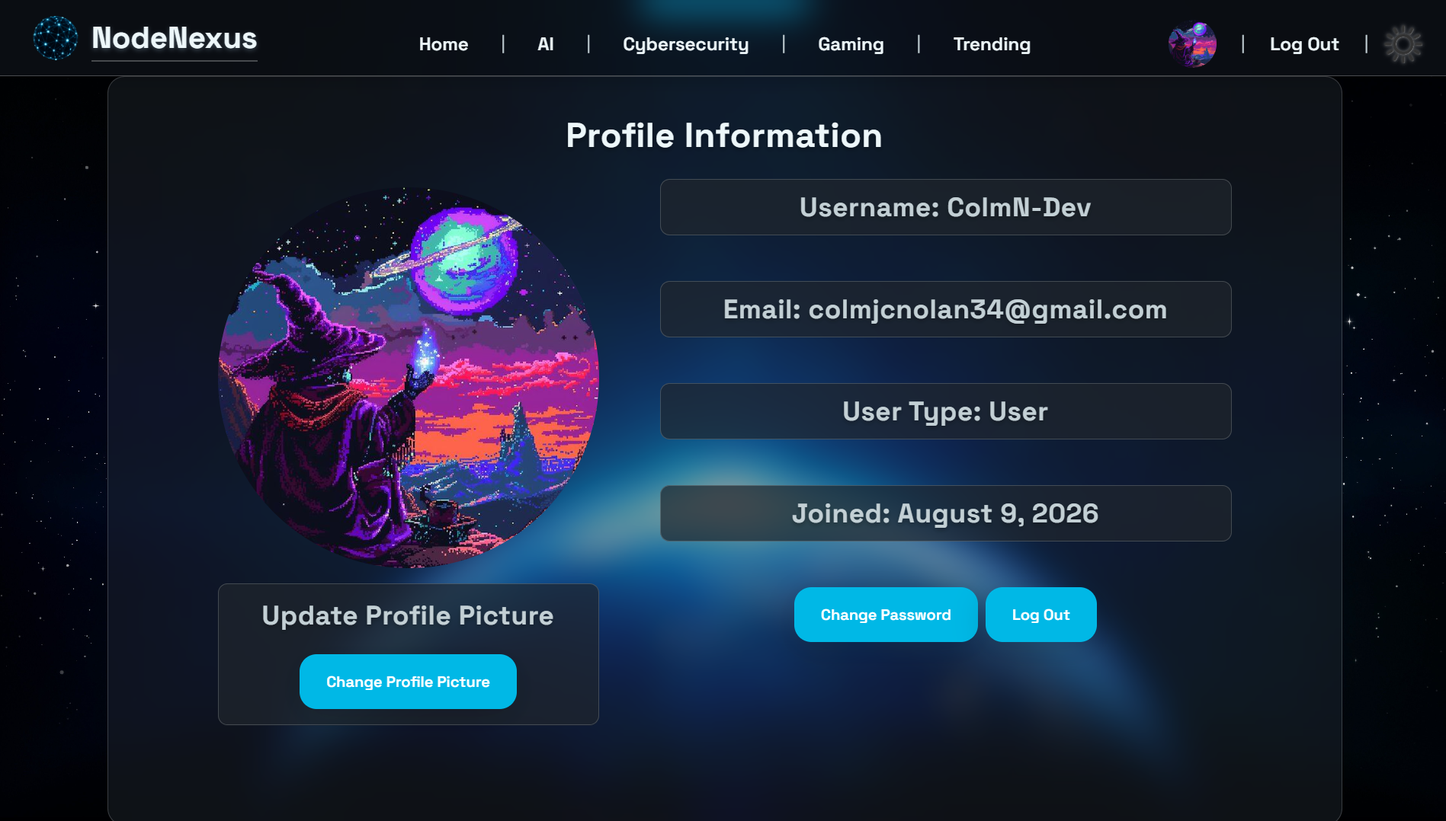
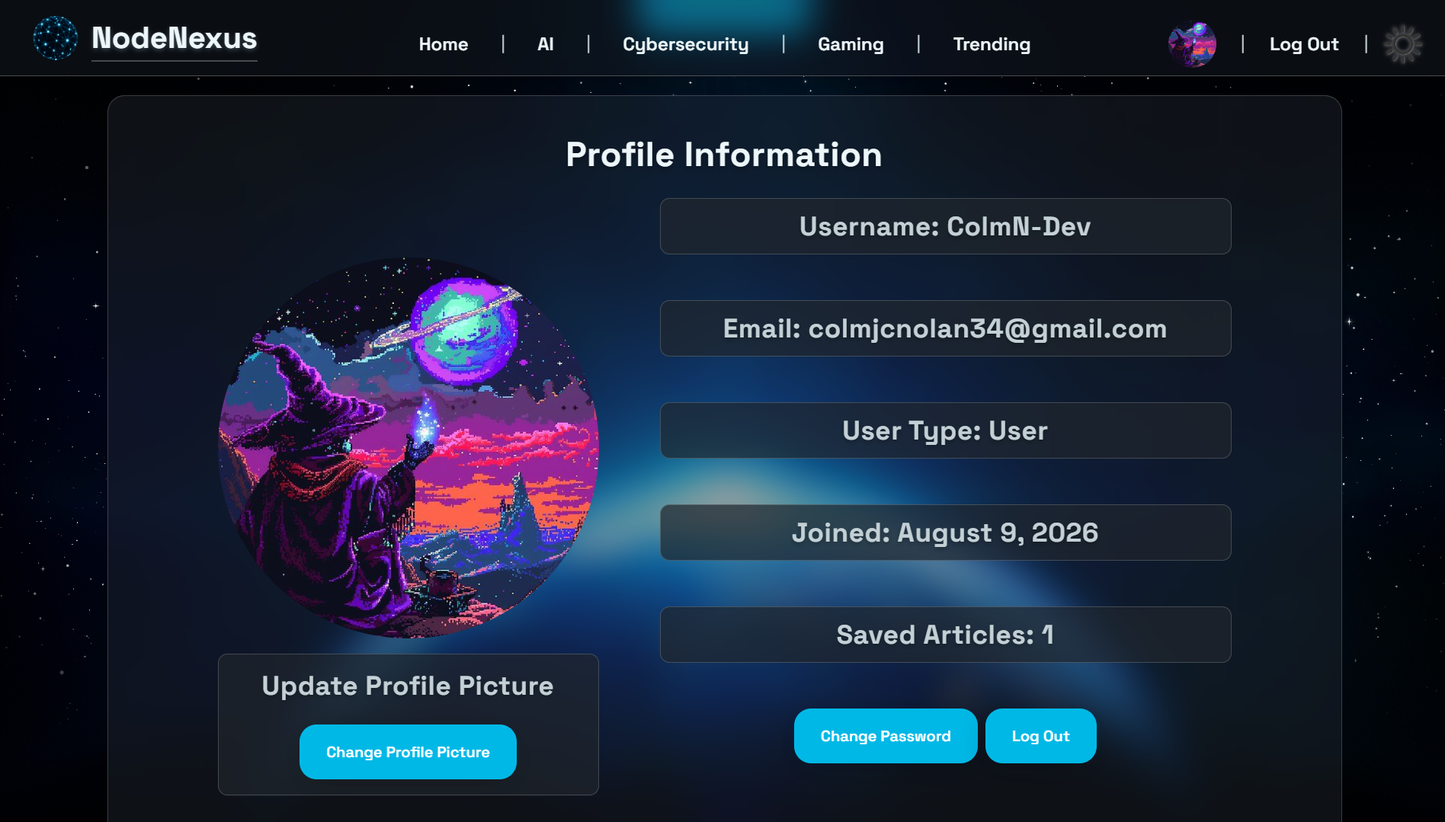
docs: Update README and documentation to include bookmarking features and article management details

diff --git a/docs/NodeNexus-Documentation.md b/docs/NodeNexus-Documentation.md
@@ -26,7 +26,7 @@
 
 NodeNexus is a technology news aggregator built with Django. It pulls articles from the Currents API and displays them across category pages (AI, cybersecurity, gaming, trending), alongside global search, autocomplete, and article detail pages.
 
-The application also includes user authentication and account features, allowing users to register, log in, manage their account, and interact with content. Further user features such as bookmarks, comments, messaging, and account management are being developed as the project progresses.
+The application also includes user authentication and account features, allowing users to register, log in, manage their account, manage their profile picture, and save articles using bookmarks.
 
 The stack is Django, PostgreSQL, and Django Templates with Bootstrap, custom CSS, and vanilla JavaScript. The project is structured so a React frontend and DRF API layer can be added later without a rewrite, but currently all pages are plain Django templates.
 
@@ -44,28 +44,31 @@ NodeNexus/
 ├── backend/
 │   ├── accounts/               # Authentication and account-related views/forms
 │   ├── config/                 # Django settings, urls, wsgi/asgi
-│   ├── core/                   # General site views (ai, cybersecurity, gaming, trending)
-│   ├── media/                  # Contains the `default.png` file for initial profile picture
-│   ├── news/                   # News app: models, views, and services/
+│   ├── core/                   # General site views and shared functionality
+│   ├── media/                  # Local media files used during development
+│   ├── news/                   # News, article, and bookmark functionality
 │   │   └── services/
 │   │       ├── currents.py     # Currents API calls + processing
-│   │       └── cache.py        # API response caching
+│   │       ├── cache.py        # API response caching
+│   │       └── articles.py     # Article creation/retrieval service logic
 │   ├── staticfiles/
 │   ├── manage.py
 │   └── requirements.txt
 │
 ├── frontend/
 │   └── src/
-│       ├── components/     # Reusable template partials (navbar, footer, article_card, etc.)
-│       ├── pages/          # Page templates (index, ai, cybersecurity, gaming, trending, search_results)
-│       └── static/         # css, js, images
+│       ├── components/         # Reusable template partials
+│       ├── pages/              # Page templates
+│       └── static/             # CSS, JavaScript, and images
 │
 ├── docs/
 ├── Procfile
 └── README.md
 ```
 
-The `core` app handles general site pages. `news` handles article fetching and category logic. The `news/services` package keeps Currents API calls and caching logic out of the views. The `accounts` app handles user registration, login, logout, profile access, password resets, and password changes.
+The core app handles general site pages and functionality. The news app handles article-related models, views, bookmarks, and external news data. The news/services/ package keeps API, caching, and article creation logic separate from the views.
+
+The accounts app handles user registration, authentication, profiles, password management, and profile pictures.
 
 ---
 
@@ -73,32 +76,57 @@ The `core` app handles general site pages. `news` handles article fetching and c
 
 ## Views and URL routing
 
-Each category page (AI, cybersecurity, gaming, trending) and the search results page has a view that: reads the requested page number from the URL, calls the relevant service function, falls back to a valid page if the requested one is empty, and renders the template.
+Django views handle requests from the frontend and connect the templates to the application's backend logic.
 
-A shared `get_page_articles` helper handles the "requested page has no results, step back until one does" logic so it isn't repeated in every view.
+Each category page (AI, cybersecurity, gaming, trending) and the search results page uses the relevant service functions to retrieve articles, handle pagination, and render the appropriate template.
+
+Article detail pages can display article data returned by the external API. When an article is bookmarked, its data is stored in the database and can then be retrieved using its database ID.
+
+URL routing is split between the main project URL configuration and the individual Django apps, keeping routes organised by responsibility.
 
 ---
 
 ## Currents API service
 
-`currents.py` handles all communication with the Currents API: building the request, processing the response into a consistent article format, and returning `has_next` so views know whether another page exists.
+`currents.py` handles communication with the Currents API, including building requests, processing responses, filtering results, and returning article data in a consistent format.
 
-The Currents API doesn't return a total result count, so pagination can't use a normal "page X of Y" approach — instead, each request returns whether a next page is available, and the app works page-by-page from there. In practice, and from testing, results are capped at five pages per query.
+The Currents API does not return a total result count, so pagination cannot use a normal "page X of Y" approach. Instead, the application checks whether another page of results is available and uses this information to control pagination.
+
+In practice, testing showed that results are capped at five pages per query.
 
 ---
 
 ## Caching
 
-`cache.py` provides a TTL-based cache in front of the Currents API calls, so repeated requests for the same query/page don't hit the external API every time. This reduces API usage and makes the app more resilient to slow or inconsistent API responses.
+`cache.py` provides a TTL-based cache in front of Currents API requests. Repeated requests for the same query and page can therefore use cached data instead of making another external API request.
+
+This reduces API usage and makes the application more resilient to slow or inconsistent API responses.
 
 ---
 
 ## Content filtering
 
-Before articles are shown, low-quality results are filtered out:
-- A domain exclusion list removes known low-value sources (forum threads, raw vulnerability database dumps).
-- Auto-generated CVE announcement titles are filtered out, while genuine articles that reference a CVE number in a proper headline are kept.
-- Duplicate articles are removed.
+Before articles are displayed, low-quality or unsuitable results are filtered out.
+
+This includes:
+
+- A domain exclusion list that removes known low-value sources and raw vulnerability database results.
+- Filtering auto-generated CVE announcement titles while keeping genuine articles that reference CVE numbers in proper headlines.
+- Removing duplicate articles from API results.
+
+---
+
+## Article and bookmark management
+
+Articles returned by the Currents API are initially handled as API response data rather than being stored in the database.
+
+When a user views an article, its data can be displayed directly from the API response. When the user chooses to bookmark an article, the relevant article data is passed to the article service.
+
+The service checks whether the article already exists in the `Article` table. If it does not, the article is created and assigned a database ID. A `Bookmark` record is then created linking the authenticated user to that article.
+
+This keeps the database limited to articles that users have actually saved instead of storing every article returned by the external API.
+
+When a user removes a bookmark, the bookmark is deleted. If the article is no longer bookmarked by any user, the associated article record can also be removed so unused article records do not remain in the database.
 
 ---
 
@@ -186,6 +214,18 @@ The article detail page has a "related articles" section that uses the same hori
 related_query = " ".join(title_words[:3])
 ```
 
+## Bookmarks
+
+Users can bookmark articles from the article detail page and remove them again from their saved articles.
+
+The bookmark interface uses SVG icons rather than text-only controls, keeping the interface compact and consistent with the rest of the NodeNexus design.
+
+When an article is bookmarked, its data is stored in the `Article` table and a `Bookmark` record links it to the user's account. Saved articles are displayed on the user's profile page.
+
+Removing a bookmark deletes the bookmark record. If the article is no longer bookmarked by any user, the associated article record is also removed to keep the database clean.
+
+---
+
 ## Responsive Design
 
 Getting Bootstrap and the custom CSS to work consistently across different screen sizes required ongoing testing and adjustments as new features were added. Components such as the mobile navigation, article carousels, pagination, article cards, and article detail layout each required responsive styling to maintain a consistent appearance and layout across desktop, tablet, and mobile devices.
@@ -218,13 +258,19 @@ The selected profile picture is displayed on the profile page and throughout the
 
 # 5. Database
 
-NodeNexus uses PostgreSQL instead of Django's default SQLite, for a more production-realistic setup and to support future features like user accounts, bookmarks, and comments. Credentials are kept in environment variables rather than in the codebase. Development and production use separate PostgreSQL databases, both accessed through the same Django ORM configuration.
+NodeNexus uses PostgreSQL instead of Django's default SQLite, for a more production-realistic setup and to support relational features such as user accounts, articles, and bookmarks. Credentials are kept in environment variables rather than in the codebase. Development and production use separate PostgreSQL databases, both accessed through the same Django ORM configuration.
 
-The database currently includes Django's default authentication tables and the application's user profile data. User accounts and profile information are stored in PostgreSQL.
+The database includes Django's default authentication tables, the application's user profile data, and the custom `Article` and `Bookmark` models.
+
+The `Article` model stores article information when an article is bookmarked, including its title, description, image, source, published date, and URL. The `Bookmark` model connects saved articles to individual users.
+
+Articles are not stored in the database simply because they were returned by the Currents API. They are only added when a user saves an article. This avoids filling the database with articles that no user has chosen to keep.
+
+When a bookmark is removed, the bookmark record is deleted. If no other user has bookmarked the associated article, the article record is also removed.
 
 Custom profile images are stored through Cloudinary, while preset profile images are stored as static files and referenced by the user's profile.
 
-User features such as bookmarks, comments, and messaging will be added later.
+User features such as comments and messaging will be added later.
 
 ---
 
@@ -235,6 +281,8 @@ User features such as bookmarks, comments, and messaging will be added later.
 - **Content filtering:** domain exclusion list, CVE-title filtering, and deduplication.
 - **Pagination:** five-button numbered pagination with previous/next arrows, responsive layout, applied across category and search pages.
 - **Article detail pages:** full article view with a larger image, a link to the original article, and a related-articles carousel.
+- **Bookmarks:** Users can save articles to their profile, view their saved articles, and remove bookmarks. Articles are only added to the database when bookmarked, and unused article records are removed when no users have them bookmarked.
+- **Article management:** Saved articles are stored using `Article` and `Bookmark` database models, allowing bookmarked content to be associated with individual users.
 - **Responsive frontend:** desktop grid / mobile carousel layouts, mobile bottom nav, off-canvas menu, fallback images.
 - **Theming:** dark/light mode via CSS variables.
 - **Caching:** TTL cache in front of the Currents API to cut down on repeat requests.
@@ -248,7 +296,7 @@ User features such as bookmarks, comments, and messaging will be added later.
 - **Profile navigation:** The user's profile picture is displayed in the desktop navbar and mobile hamburger menu.
 - **Deployment setup:** Render hosting, PostgreSQL, Gunicorn, WhiteNoise for static files.
 
-Not yet built: bookmarks, comments, and the inbox/messaging system.
+Not yet built: comments and the inbox/messaging system.
 
 ---
 
@@ -256,9 +304,11 @@ Not yet built: bookmarks, comments, and the inbox/messaging system.
 
 - The app depends entirely on the Currents API — if it's slow, rate-limited, or changes its response format, that directly affects the site. Caching helps but doesn't remove the dependency.
 - Article data from the API isn't perfectly consistent (missing fields, occasional thin category results), so some normalisation and filtering will likely need further tuning.
-- Related-articles matching (first three words of the title) is a simple heuristic, not true topic matching, so results are sometimes only loosely related.
-- Article detail pages currently pass full article metadata (title, description, image, source, published date, URL) through query parameters in the URL, rather than looking articles up by an ID from the database. This works for now but is only temporary until articles are stored with proper IDs once the database models are built.
-- User authentication, profile access, profile editing, profile pictures, password reset, and change password are implemented. Bookmarking, comments, and messaging have not been built.
+- Related-articles matching (first three words of the title) is a simple approximation, not true topic matching, so results are sometimes only loosely related.
+- Article detail pages currently receive the full article metadata through query parameters rather than looking the article up by a database ID. This is intentional for unsaved articles because API articles are not stored in the database until a user bookmarks them.
+- Bookmarked articles are stored in the database, but the application does not currently store every article returned by the API. This means an article only receives a database ID after it has been saved.
+- Bookmarking currently depends on the article data supplied by the API response. If the API changes or provides incomplete article data, this can affect the information stored when an article is bookmarked.
+- Comments, messaging/inbox functionality, and account deletion have not yet been implemented.
 
 ---
 
@@ -275,6 +325,16 @@ Not yet built: bookmarks, comments, and the inbox/messaging system.
 **Why previous/next pagination instead of numbered totals** — the Currents API doesn't report a total result count, so a traditional "page X of Y" approach wasn't possible. Since results are capped at five pages, a fixed five-button layout was used instead of calculating a page range.
 
 **Why a service layer for the API** — keeping `currents.py` and `cache.py` separate from the views means the views stay focused on handling requests, and the API/caching logic can be tested and changed independently.
+
+**Why articles are not stored immediately** — Articles returned by the Currents API are initially treated as API response data rather than being stored in the database. Storing every article returned by the API would create unnecessary database records for content users may never interact with. An article is only created in the database when a user chooses to bookmark it.
+
+**Why bookmarks use separate Article and Bookmark models** — The `Article` model stores the article data itself, while the `Bookmark` model connects an article to a specific user. This keeps article data separate from the user's saved relationship and allows the same article to be bookmarked by multiple users without duplicating the article record.
+
+**Why the Article record is created when bookmarked** — When a user saves an API article, the application uses the article data already available in the API response to create or retrieve the corresponding `Article` record. The database then assigns the article its own ID, which the bookmark can reference.
+
+**Why unused articles are removed** — When a user removes a bookmark, the bookmark record is deleted. If no other users have bookmarked that article, the associated `Article` record is also removed. This prevents the database from accumulating article records that are no longer being used.
+
+**Why API response data is used for unsaved articles** — The Currents API does not provide a reliable way to retrieve an individual article by its URL or another permanent database identifier. Passing the article data through to the detail page allows unsaved articles to be displayed without unnecessarily storing them in the database.
 
 ---
 
@@ -326,6 +386,26 @@ Deployment flow: push to GitHub → Render pulls the update → installs depende
 
 **Cloudinary configuration and Render deployment** — The Cloudinary implementation initially caused deployment problems on Render. The build installed the `cloudinary` package but failed when Django attempted to import `cloudinary_storage`. The unused `cloudinary_storage` configuration was removed and the project was configured to use `CloudinaryField` directly. Cloudinary environment variables were then added to Render so the same profile image system worked in both development and production.
 
+**Bookmark database design** — Adding bookmarks required deciding how API articles should be represented in the database. Storing every article returned by Currents would create unnecessary database records, so the final design keeps unsaved articles as API response data and only creates an `Article` record when a user bookmarks one.
+
+**Using the API response for unsaved articles** — A major challenge was that an article being viewed does not necessarily exist in the database. The final solution was to continue using the Python dictionary containing the API response while the article is being viewed. When the user chooses to bookmark it, that dictionary provides the data needed to create the database record. This avoids forcing every API result into the database just to support the article detail page.
+
+**Creating articles only when bookmarked** — The bookmarking flow was designed so the application gets or creates the `Article` record from the API data when the user saves an article. The database then assigns the article its own ID, and the `Bookmark` record links that article to the user's account. This provided a much simpler solution than trying to maintain database records for every article returned by the API.
+
+**Separating Article and Bookmark records** — The implementation required understanding that an article and a user's bookmark are two different pieces of data. The `Article` model stores the article itself, while the `Bookmark` model represents the relationship between a user and a saved article. This allows an article to exist once in the database while being bookmarked by multiple users.
+
+**Bookmark removal and unused articles** — Initially, removing a bookmark only removed the bookmark relationship, leaving the associated article in the database. This meant an article could remain in the `Article` table even after no user had saved it. The deletion logic was updated so that after a bookmark is removed, the application checks whether the article is still bookmarked by another user. If it is not, the unused `Article` record is deleted as well, keeping the database clean.
+
+**Bookmark state on article pages** — The article detail page needed to know whether the current authenticated user had already bookmarked the article so that the correct bookmark state could be displayed. This required passing the bookmark state from the backend to the template while still supporting articles that had not yet been stored in the database.
+
+**Bookmark interface and icon design** — The bookmark controls were refined during implementation so the final interface uses SVG icons rather than relying on text-only buttons. The remove-bookmark action was given stronger danger styling because it represents a destructive action, while simpler Bootstrap styling was retained for less significant controls such as cancel actions.
+
+**Bookmark migrations and database changes** — Adding the `Article` and `Bookmark` models required creating and applying Django migrations. Subsequent changes to the `Article` model also required additional migrations so the database structure remained consistent with the Django models.
+
+**Article service layer** — The bookmark implementation introduced a dedicated article service function responsible for getting an existing article or creating it from the supplied API data. This kept database creation logic out of the bookmark view and provided one place for handling the transition from temporary API data to a persistent database article.
+
+**Testing bookmark creation and deletion** — The complete bookmark flow required testing that an article could be saved, appeared in the user's saved articles, could be removed again, and that the corresponding database records were correctly created and cleaned up. Additional testing will continue as further NodeNexus features are added.
+
 **Development and production consistency** — The profile picture system was tested across both the local development environment and the deployed Render application. The final implementation keeps preset images in static files and custom uploads in Cloudinary, avoiding reliance on the Render filesystem for user-uploaded media.
 
 ---
@@ -358,16 +438,26 @@ Deployment flow: push to GitHub → Render pulls the update → installs depende
 - Using JavaScript to control a custom modal, handle image selection, and preview profile images before submission.
 - Understanding how HTML form structure can affect modal behaviour and why separating the modal from the main update form was necessary.
 - Keeping development and production media handling consistent through environment-based Cloudinary configuration.
+- Separating temporary API response data from persistent database data.
+- Why articles should only be stored in the database when a user chooses to bookmark them rather than storing every article returned by the API.
+- Working with relationships between the `Article` and `Bookmark` models to connect users with saved articles.
+- Using `get_or_create()` to prevent duplicate article and bookmark records.
+- Cleaning up unused database records when a bookmark is removed.
+- Passing bookmark state from a Django view to a template so the interface can display the correct action.
+- Reusing an existing bookmark deletion view from multiple parts of the application rather than creating separate deletion logic.
+- Using database IDs when API data is converted into persistent Django model records.
+- Reviewing documentation against the actual application to identify missing functionality and inconsistencies.
 
 ---
 
 # 12. Next Steps
 
-- Bookmarks (saved articles), comments, and the inbox/messaging system required by the assignment brief.
+- Comments and the inbox/messaging system required by the assignment brief.
 - Account deletion and additional account management features.
 - Admin functionality and role-based access control.
 - Continued testing and bug fixes on API result consistency (some categories occasionally return fewer than 12 articles).
 - Final UI polish, responsive testing, accessibility improvements, and general application refinement.
+- Continued testing of existing features as new functionality is added.
 - Eventual migration to a React frontend with a DRF API layer — models and the service layer are expected to carry over largely unchanged.
 
 ---

diff --git a/README.md b/README.md
@@ -140,6 +140,16 @@ Cloudinary is used to store custom user-uploaded profile images. Preset profile 
 
 ---
 
+### Bookmarks
+
+- Users can bookmark articles while viewing them
+- Bookmarked articles are displayed on the user's profile
+- Users can remove bookmarks from both the profile and article detail pages
+- Articles are only stored in the database when bookmarked
+- Unused article records are removed when the final bookmark is deleted
+
+---
+
 ### Content Quality Filtering
 
 - Duplicate articles removed based on source URL
@@ -198,6 +208,7 @@ The project follows a Django multi-app structure with a separated frontend/backe
 - `core` handles general site routing and category page views.
 - `news` handles external API communication, caching, and search logic.
 - `accounts` handles user registration, login, logout, profile access, profile editing, profile pictures, password reset, and change password.
+- The `Article` and `Bookmark` models separate persistent article data from the user's saved relationship, with articles being created only when bookmarked.
 - A dedicated `services` layer within `news` separates Currents API integration from Django views.
 - Reusable template components (navbar, footer, search bar, article cards, mobile navigation) reduce duplication across pages.
 - Django's built-in authentication system handles user accounts and stores users in the PostgreSQL database.
@@ -211,7 +222,9 @@ The application uses PostgreSQL, configured through Django's ORM.
 
 Django's built-in authentication tables are used for user accounts. The `Profile` model stores additional user profile information, including the selected preset profile image or custom Cloudinary image.
 
-Custom application models for articles, bookmarks, comments, and messaging have not been created yet.
+The `Article` model stores articles when users bookmark them, while the `Bookmark` model links saved articles to individual users. Articles that are no longer bookmarked by any user are removed from the database.
+
+Comment and messaging models have not been created yet.
 
 ---
 
@@ -297,40 +310,42 @@ python backend/manage.py collectstatic --noinput
 
 ## Routing Structure
 
-- `backend/config/urls.py` → includes the main application and accounts routes
-- `backend/core/urls.py` → main pages (`/`, `/ai/`, `/cybersecurity/`, `/gaming/`, `/trending/`, `/search/`, `/auto-complete/`, `/article/`)
+- `backend/config/urls.py` → includes the main application, news, and accounts routes
+- `backend/core/urls.py` → main site pages (`/`, `/ai/`, `/cybersecurity/`, `/gaming/`, `/trending/`)
+- `backend/news/urls.py` → article search, autocomplete, article detail, bookmarking, and bookmark deletion routes
 - `backend/accounts/urls.py` → authentication routes for registration, login, logout, profile, profile editing, password reset, and change password
 
 ---
 
 ## Implemented Routes
 
-| Route                       | Purpose                        |
-| --------------------------- | ------------------------------ |
-| `/`                         | Homepage                       |
-| `/ai/`                      | AI news category               |
-| `/cybersecurity/`           | Cybersecurity news category    |
-| `/gaming/`                  | Gaming news category           |
-| `/trending/`                | Trending technology category   |
-| `/search/`                  | Search results                 |
-| `/auto-complete/`           | Search autocomplete            |
-| `/article/`                 | Individual article detail      |
-| `/signup/`                  | User registration              |
-| `/login/`                   | User login                     |
-| `/logout/`                  |  User logout                   |
-| `/profile/`                 | User profile                   |
-| `/change_password/`         | Change current password        |
-| `/password_reset/`          | Request password reset email   |
-| `/password_reset_done/`     | Password reset email sent      |
-| `/password_reset_confirm/`  | Set a new password             |
-| `/password_reset_complete/` | Password reset completed       |
+| Route                               | Purpose                        |
+| ----------------------------------- | ------------------------------ |
+| `/`                                 | Homepage                       |
+| `/ai/`                              | AI news category               |
+| `/cybersecurity/`                   | Cybersecurity news category    |
+| `/gaming/`                          | Gaming news category           |
+| `/trending/`                        | Trending technology category   |
+| `/search/`                          | Search results                 |
+| `/auto-complete/`                   | Search autocomplete            |
+| `/article/`                         | Individual article detail      |
+| `/article/<int:article_id>/`        | Saved article detail page      |
+| `/article/<int:article_id>/delete/` | Remove a bookmarked article    |
+| `/article/bookmark/`                | Bookmark an article            |
+| `/signup/`                          | User registration              |
+| `/login/`                           | User login                     |
+| `/logout/`                          |  User logout                   |
+| `/profile/`                         | User profile                   |
+| `/change_password/`                 | Change current password        |
+| `/password_reset/`                  | Request password reset email   |
+| `/password_reset_done/`             | Password reset email sent      |
+| `/password_reset_confirm/`          | Set a new password             |
+| `/password_reset_complete/`         | Password reset completed       |
 
 ---
 
 ## Planned Features
 
-
-- Saved/bookmarked articles
 - Comment system
 - User-to-user direct messaging
 - Account deletion
